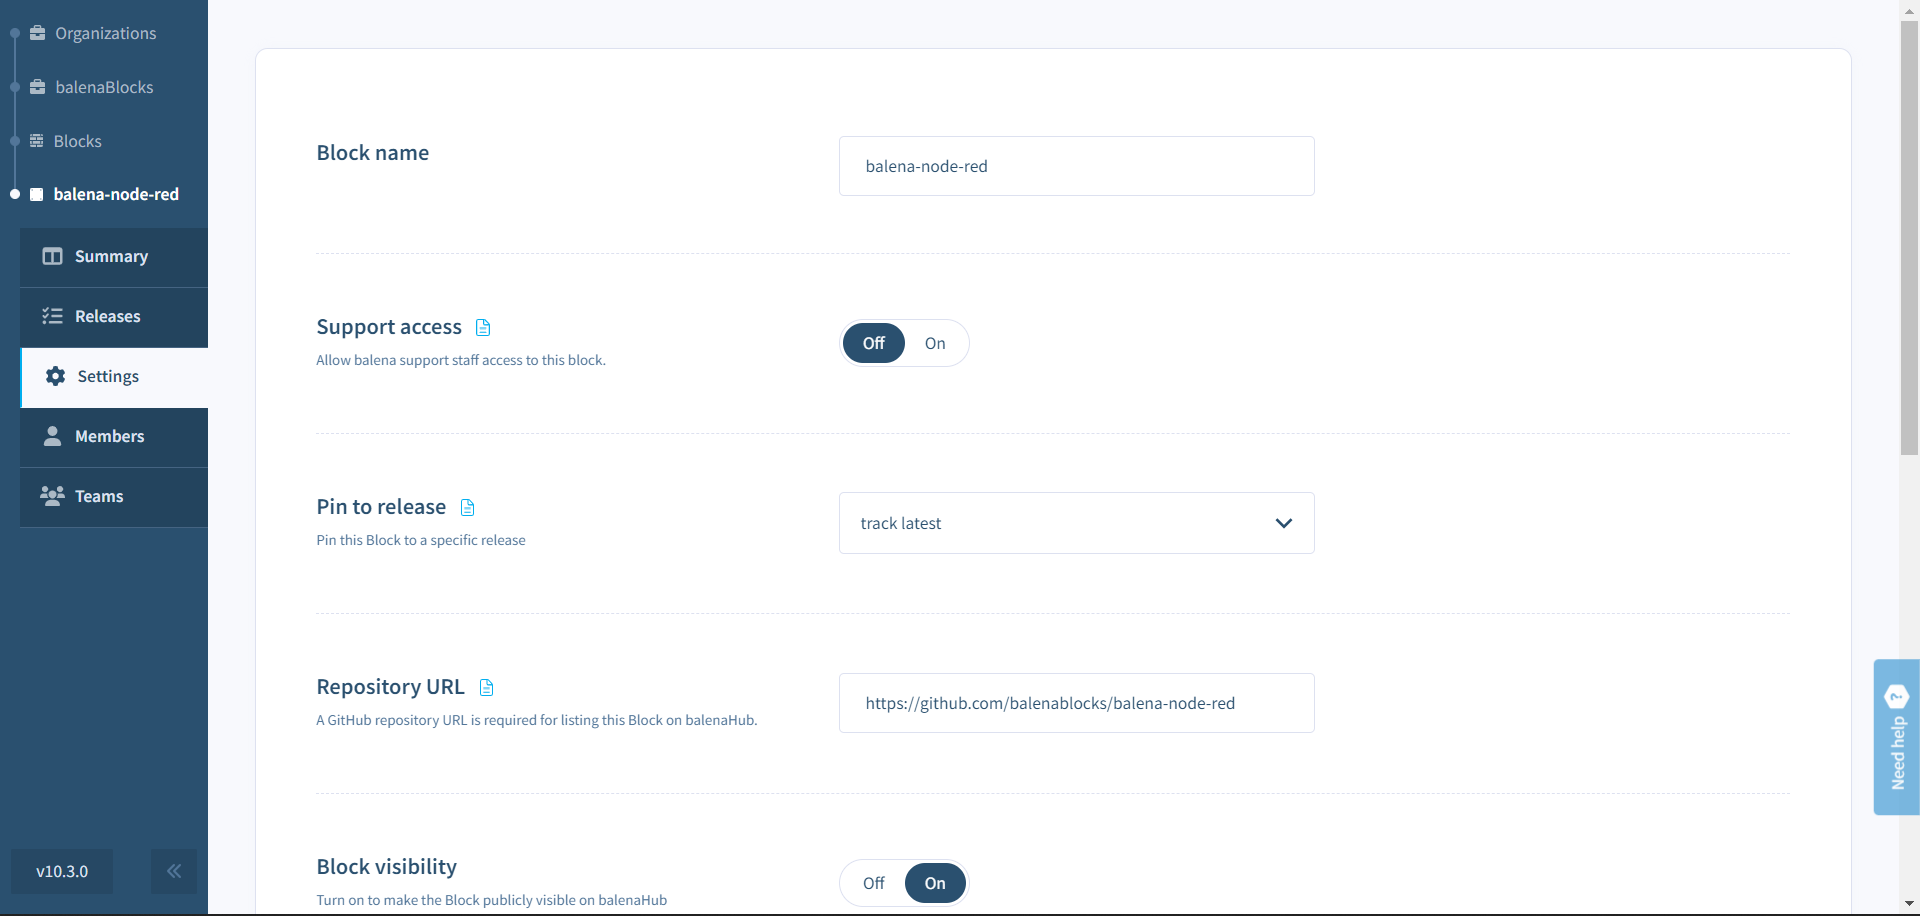
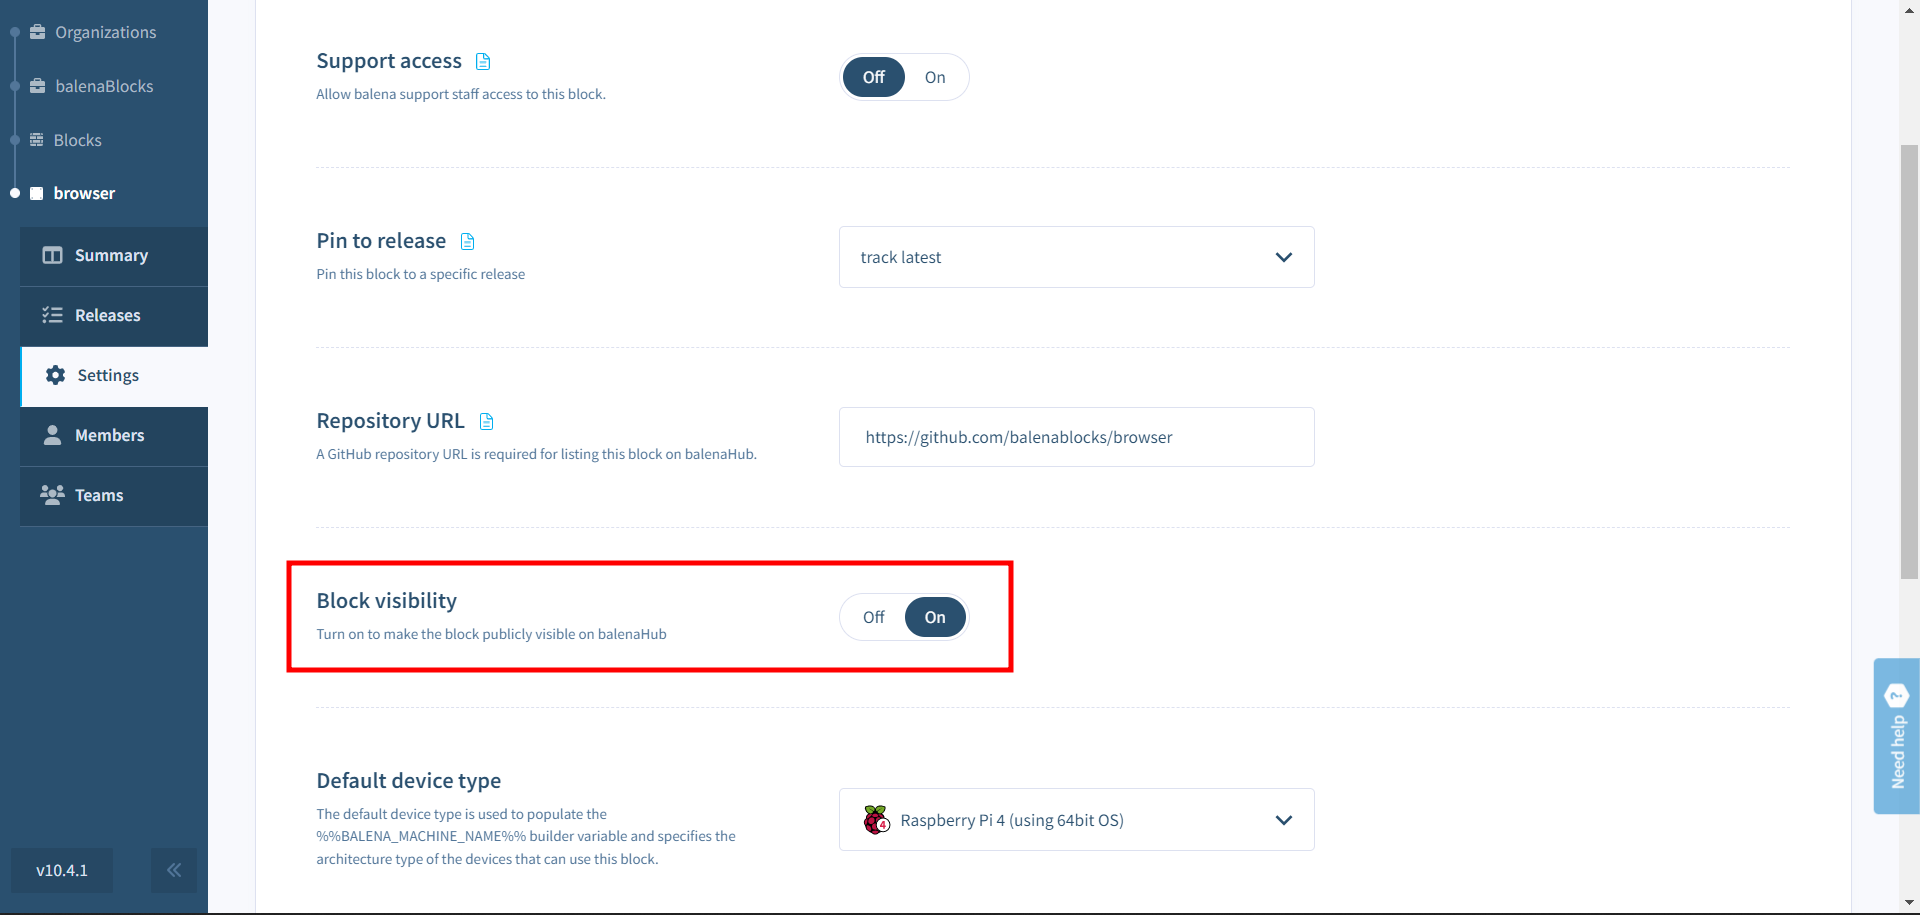
Add screenshots for docs

diff --git a/pages/learn/develop/blocks.md b/pages/learn/develop/blocks.md
@@ -1,119 +1,128 @@
 ---
 title: Develop with blocks
-excerpt: A drop-in chunk of functionality that can be added to your application to provide.
+excerpt: A drop-in chunk of functionality that can be added to your fleet.
 ---
 
-# Getting Started with blocks
+# Develop with blocks
 
-A software package is a collection of individual files or resources that are packed together to provide a certain functionality as part of a larger system. Blocks are just that. They are drop-in, independent chunks of functionality built to handle a specific task, allowing you to focus on solving the hard problems instead.
+A block is a container image that can be added to a multicontainer fleet in order to provide specific functionality. Blocks are intended to reduce the friction of app development by making it easier to re-use functionality, much like software packages. 
 
-A block is a container image that can be added to a multi-container app in order to provide specific functionality. Blocks are intended to reduce the friction of application development by making it easier to re-use functionality, much like software packages. Similar to how software developers don't want to rewrite common functions, this is a DRY approach for IoT developers to not create containers of every function and re-use what's already out there for their application to work.
+Similar to how software developers don't want to keep rewriting common functions, IOT developers don't want to keep creating containers for common tasks, such as handling Bluetooth connections or interacting with attached displays. Blocks provide solutions to common IoT application requirements, which developers can re-use to enable their fleet.
 
-For example, getting a browser to run well in a container is a tedious task. So, why not use the [browser block][browser].
+For example, getting a browser to run well in a container is a tedious task. Hence, why not use the [browser block][browser] to get things up and running faster..
 
+<img src="/img/blocks/diagram-1.png" width="70%">
 
-<img src="/img/blocks/diagram-1.png" width="100%">
+## Getting Started with blocks
 
-## Develop with a block
+Since blocks are container images, they can be added to a multicontainer fleet. To use a block in your fleet, add the block's image as a new service in the `services` section of your app's `docker-compose.yml` file. This is similar to how we would build [multicontainer fleets][multicontainer].
 
-Blocks being a container image can be added to a multi-container app. To use a block in your app, add the block's image as a new service in the `services` section of your app's `docker-compose.yml` file. This is similar to how we would [build multicontainer apps][multicontainer].
-
-Here's an example of using the [browser block][browser] in a sample multi-container app running 2 services. More blocks 
+Here's an example of using the [browser block][browser] in a sample multicontainer fleet already running 2 services.
 
 ```
 version: '2'
 
 services:
-  # Browser block service goes here 
+  # Browser block service added to the multicontainer fleet
   browser:
     image: balenablocks/browser
-    privileged: true 
+    privileged: true
     network_mode: host
 
-  # Existing services in the multi-container app
+  # Existing services in the multicontainer fleet
   balena-node-hello-world:
     build: ./balena-node-hello-world
     restart: always
     depends_on:
       - browser
-    ports: 
+    ports:
       - "80"
   importantBananaDb:
     image: importantBanana/db:latest
-    ports: 
+    ports:
       - "8080"
     environment:
       DB_ROOT_PASSWORD: 'potassium'
       RUN_MODE: 'super-secure'
-``` 
+```
 
-Similarly, each block will have be having their own set of [docker-compose fields][docker-compose] that it requires for configuration and usage. Do take care of syntax and conflicts in the docker-compose.yml file when composing and deploying your multi-container configuration. 
+Each block will have their own set of [docker-compose fields][docker-compose] which are required to configure the container they run within. Do take care of syntax and conflicts in the docker-compose.yml file when composing and deploying your multicontainer configuration.
 
+More resources:
 
-More resources: 
+1. Blog on [Introduction to blocks](https://www.balena.io/blog/introducing-balenablocks-jumpstart-your-iot-app-development/).
+2. Check out our guide on [how to compose multicontainer fleets](https://www.balena.io/blog/two-projects-one-device-turn-your-raspberry-pi-into-a-multitool/) for more details.
+3. Video tutorial on [IoT Happy Hour](https://youtu.be/Mllay6Z2-qQ?t=1440) about using  balenaBlocks and building an [environmental sensor app](https://github.com/balenalabs-incubator/ruuvitag) using sensor, connector, and dashboard block.
 
+## Creating your own block
 
-1. Video tutorial on [IoT Happy Hour](https://youtu.be/Mllay6Z2-qQ?t=1440) about using  balenaBlocks and building an [environmental sensor app](https://github.com/balenalabs-incubator/ruuvitag) using sensor, connector, and dashboard block.
-   
-2. Check out our guide on [how to compose multi-container apps](https://www.balena.io/blog/two-projects-one-device-turn-your-raspberry-pi-into-a-multitool/) for more details. 
-   
-3. Blog on [Introduction to blocks](https://www.balena.io/blog/introducing-balenablocks-jumpstart-your-iot-app-development/).
+Since blocks are container images, the process to create them is very similar to creating any other container. To learn more about what makes a good candidate for a block, refer to this [blog post](https://www.balena.io/blog/how-to-make-your-own-balenablocks-simple-drop-in-edge-app-functionality/). 
 
-## Creating your own block 
-
-Since blocks are container images, the process to create blocks is very similar to creating a container image. To learn more about the what can be a block, you can read this [blog post](https://www.balena.io/blog/how-to-make-your-own-balenablocks-simple-drop-in-edge-app-functionality/). In order to create your own block:
-
-1. The code for your block should be in GitHub project and has to [include a balena.yml file](https://www.balena.io/docs/learn/deploy/deploy-with-balena-button/#balenayml-configuration-file) and a logo. Here's a balena.yml file of a block for reference:
+In order to create your own block, the code needs to be in a GitHub repository. It has to [include a balena.yml file](https://www.balena.io/docs/learn/deploy/deploy-with-balena-button/#balenayml-configuration-file) in the root directory of the project. Here's a balena.yml file of the [browser block](https://github.com/balenablocks/browser/) for reference:
 
 
 ```yml
-name: capture-block
+name: browser
 description: >-
-  Sends an RTSP video feed from a connect camera to a configurable endpoint
-version: 0.0.1
+  a hardware accelerated web browser to present internal and external URLs on a
+  connected display
+version: 2.3.2
 type: sw.block
 assets:
   repository:
     type: blob.asset
     data:
-      url: 'https://github.com/balenablocks/capture'
+      url: 'https://github.com/balenablocks/browser'
   logo:
     type: blob.asset
     data:
-      url: 'https://raw.githubusercontent.com/balenablocks/capture/master/logo.png'
+      url: 'https://raw.githubusercontent.com/balenablocks/browser/master/logo.png'
 data:
-  defaultDeviceType: raspberrypi4-64
+  defaultDeviceType: raspberrypi3
   supportedDeviceTypes:
-    - raspberry-pi
-    - raspberry-pi2
+    - raspberrypi4-64
+    - fincm3
     - raspberrypi3
     - raspberrypi3-64
-    - raspberrypi4-64
+    - raspberrypi400-64
+    - intel-nuc
+    - genericx86-64-ext
 ```
 
-Refer to the [browser block][browser] for an example of repository structure.
+Next, navigate to the `Blocks` tab in the sidebar and click the `Create block` button in the balenaCloud dashboard.
 
-3. Create a new balenaCloud fleet and [push a new release][balena-push] from your GitHub project to the fleet. Follow the [Getting Started][getting-started] guide to learn how to create a fleet, and push releases.
-4. In the balenaCloud dashboard, head to the `Settings` tab. Do something here.
+<img src="/img/blocks/image.png" width="100%">
 
-That's it, you created your own block!
+Fill the details for your block in the modal, and click `Create new block` button to create your block.
+
+<img src="/img/blocks/create-block.png" width="70%">
+
+Next, we have to [push a new release][balena-push] from your project to your newly created block on balenaCloud. If you are new to this, then follow the [Getting Started][getting-started] guide. After the release has been created, your block is ready. You can manage, modify and iterate further on your block from the balenaCloud dashboard.
 
 ## Release management for blocks
 
-Specific to blocks - See how things differ. I need to actually see the functionality for this. 
+To deploy new releases of your block, you can use the [balena-push][balena-push] command using the [balenaCLI](https://github.com/balena-io/balena-cli). The `Releases` tab in the sidebar will show the list of all releases of your block.
 
+<img src="/img/blocks/release.png" width="80%">
 
-## Making your block public 
+By default, the block is set to `track latest`, which means that new releases are immediately tagged as the default release for the block. Expanding this _Default release_ dropdown menu displays all successful releases for the block, and you can select a specific release to pin the block to. When a particular release is selected, that release will be tagged as the default release of your block. After pinning to a specific release, releases will not be deployed until the _Default release_ is updated to a newer release or it's set back to `track latest`.
 
-Blocks by default are set to private. Blocks when made public are neither joinable like fleets nor forkable like projects, but they’re a resource for everyone to use when creating their own fleets, projects, proof of concepts and prototypes.
+<img src="/img/blocks/release-mgmt.png" width="100%">
 
-With blocks being private, you can iterate, test and build more functionality into your block before making it available to the world. When you are ready for your block to be made public, head to the `Settings` tab in the sidebar and click the ‘Make public’ button to toggle the visibility on balenaHub; you’re free to toggle the visibility on and off as necessary at any time.
+## Making your block public
 
-This would lead to your block being available on [balenaHub](https://hub.balena.io) for folks to use and build upon as soon as your submission has been marked as public. BalenaHub is the ever-growing library of blocks, projects and fleets contributed by the community.
+When a block is created on balenaCloud it will not automatically be publicly visible on balenaHub. When a block is made public it is listed in the [Blocks section][blockhub] of balenaHub, but is not joinable like fleets or forkable like projects. Instead the card for the block allows users to find the source code for the block, and learn how to deploy and use it in their own fleet.
+
+When blocks are private, you can iterate, test and build more functionality before making it available to the world. When you are ready to release, head to the `Settings` tab in the sidebar and add your block's GitHub repository to the `Repository URL`  section. Next, toggle the `Block visibility` button to `on` for your block to be visible on balenaHub. You’re free to toggle the visibility on and off as necessary at any time.
+
+<img src="/img/blocks/settings.png" width="100%">
+
+This would lead to your block being available on [balenaHub][blockhub] for folks to use and build upon as soon as your submission has been marked as public. BalenaHub is the ever-growing library of blocks, projects and fleets contributed by the community.
 
 [browser]:https://github.com/balenablocks/browser
 [multicontainer]:/learn/develop/multicontainer/#docker-composeyml-file
 [docker-compose]:/reference/supervisor/docker-compose/
 [balena-node-hello-world]:https://github.com/balena-io-examples/balena-node-hello-world
-[balena-push]:/deploy/deployment/#balena-push
+[balena-push]:/learn/deploy/deployment/#balena-push
 [getting-started]:/learn/getting-started/raspberrypi3/nodejs/
+[blockhub]:https://hub.balena.io/blocks
